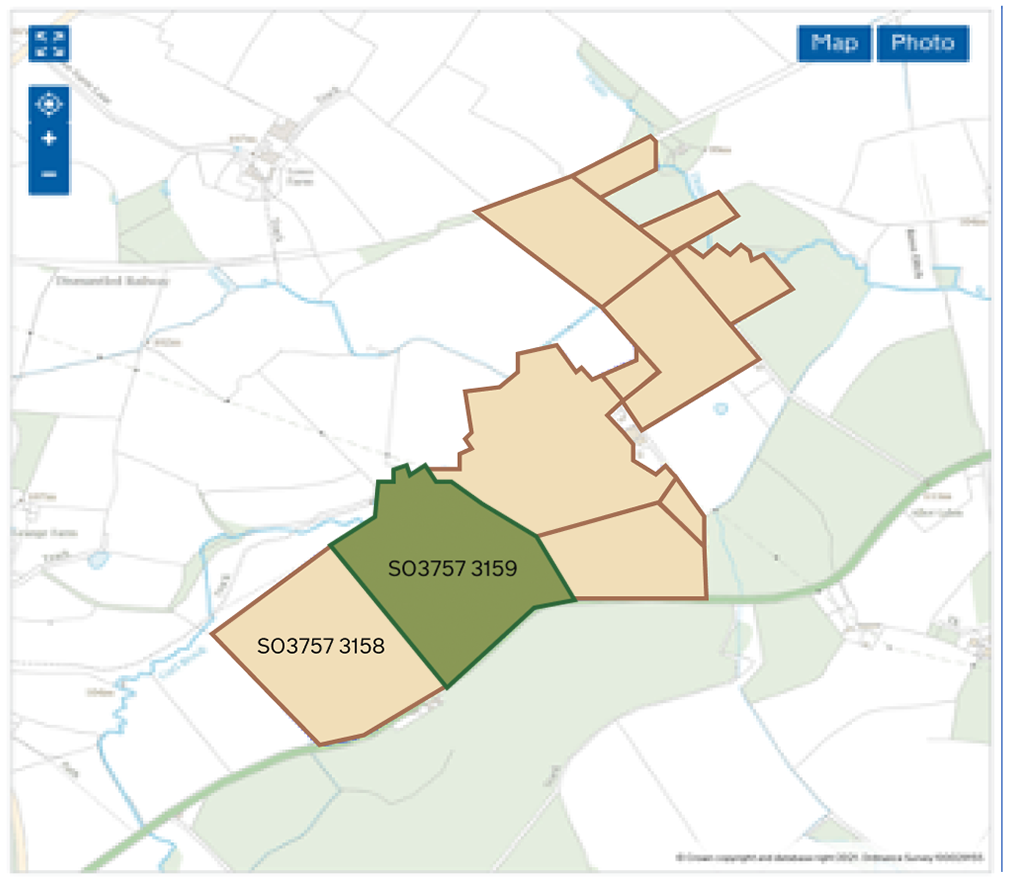
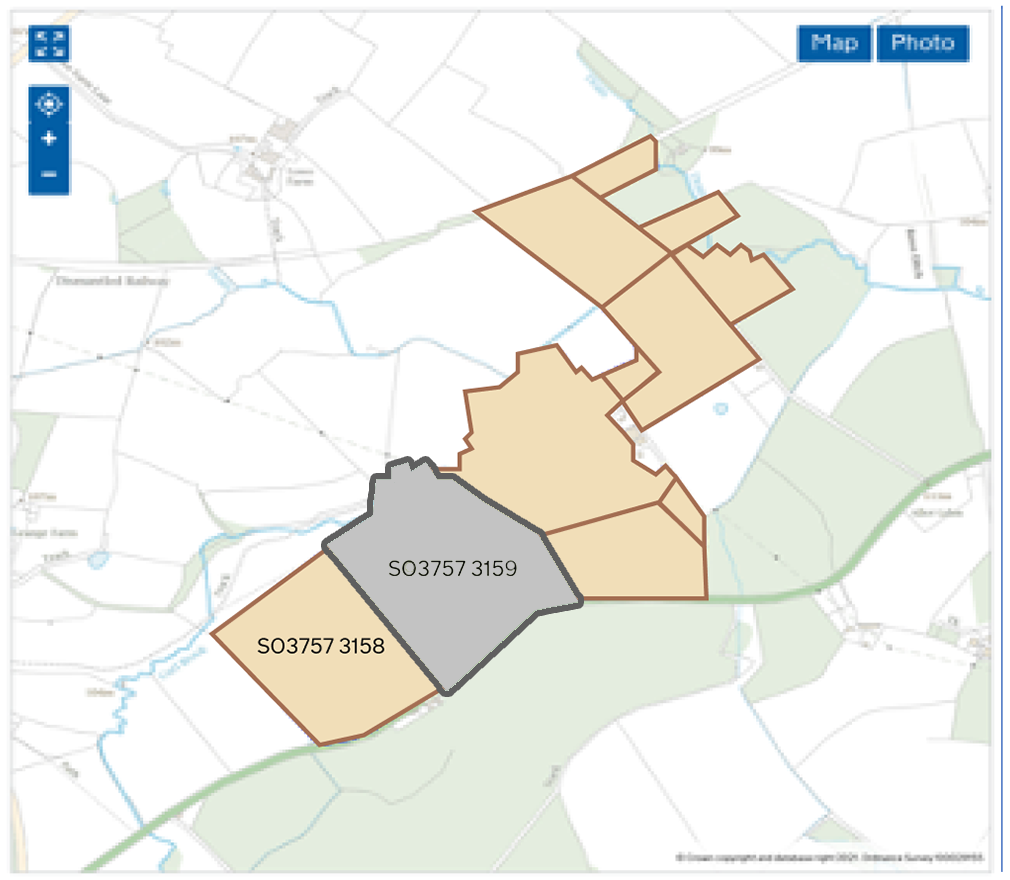
copying actions

Changed region(s): [[0.3069, 0.5216, 0.5832, 0.7977]]

diff --git a/app/views/v1/select-land-copy-action.html b/app/views/v1/select-land-copy-action.html
@@ -23,63 +23,60 @@
   </div>
 </div>
 
-<div class="govuk-width-container">
-<main class="govuk-main-wrapper">
-
-  <div class="govuk-grid-row">
+ <div class="govuk-grid-row main" id="main">
   <div class="govuk-grid-column-one-half">
-          <h1 class="govuk-heading-l">Select land for your actions</h1>
-<p class="govuk-body">To add your selected actions to a land parcel, click on the land parcel link or the map area.</p>
-<p class="govuk-body">You’ll see your list of actions. You then need to:<br>
-• select the action and enter the amount that you want to add to the parcel<br>
-• confirm your selection for that parcel</p>
-<!--<p class="govuk-body">You can then move on to the next land parcel and repeat these steps. When you finish, click 'Go back to select a different area'. This takes you back to the OS map sheet page. You then need to click ‘back to task list’ to continue your application.</p>-->
-<hr class="section-break-large"></hr>
-      <table class="govuk-table">
-<p class="govuk-body">OS Map Sheet Reference S03</p>
-<hr class="govuk-section-break govuk-section-break--visible">
-  <tbody class="govuk-table__body">
-    <tr class="govuk-table__row">
-      <td class="govuk-table__cell">Number of available land parcels</td>
-      <td class="govuk-table__cell govuk-table__cell--numeric">11</td>
-    </tr>
-    <tr class="govuk-table__row">
-      <td class="govuk-table__cell">Total area (ha)</td>
-      <td class="govuk-table__cell govuk-table__cell--numeric">120.3451 ha</td>
-    </tr>
-<!--    <tr class="govuk-table__row">-->
-<!--     <td class="govuk-table__cell">Number of land parcels used for actions</td>-->
-<!--      <td class="govuk-table__cell govuk-table__cell&#45;&#45;numeric">0</td>-->
-<!--    </tr>-->
-<!--        <tr class="govuk-table__row">-->
-<!--    <td class="govuk-table__cell">Number of actions applied for</td>-->
-<!--      <td class="govuk-table__cell govuk-table__cell&#45;&#45;numeric">0</td>-->
-<!--    </tr>-->
-  </tbody>
-</table>
+          <h1 class="govuk-heading-l">Confirm parcel to copy actions to</h1>
+              <p class="govuk-body">To copy your selected actions to a land parcel, click on the land parcel link or the map area.</p>
+              <p class="govuk-body">You'll see your list of actions. You then need to:<br>
+              • select the action and enter the amount that you want to add to the parcel<br>
+              • confirm your selection for that parcel</p>
+              <!--<p class="govuk-body">You can then move on to the next land parcel and repeat these steps. When you finish, click 'Go back to select a different area'. This takes you back to the OS map sheet page. You then need to click ‘back to task list’ to continue your application.</p>-->
+              <hr class="section-break-large"></hr>
+                    <table class="govuk-table">
+              <p class="govuk-body">OS Map Sheet Reference S03</p>
+              <hr class="govuk-section-break govuk-section-break--visible">
+                <tbody class="govuk-table__body">
+                  <tr class="govuk-table__row">
+                    <td class="govuk-table__cell">Number of available land parcels</td>
+                    <td class="govuk-table__cell govuk-table__cell--numeric">11</td>
+                  </tr>
+                  <tr class="govuk-table__row">
+                    <td class="govuk-table__cell">Total area (ha)</td>
+                    <td class="govuk-table__cell govuk-table__cell--numeric">120.3451 ha</td>
+                  </tr>
+              <!--    <tr class="govuk-table__row">-->
+              <!--     <td class="govuk-table__cell">Number of land parcels used for actions</td>-->
+              <!--      <td class="govuk-table__cell govuk-table__cell&#45;&#45;numeric">0</td>-->
+              <!--    </tr>-->
+              <!--        <tr class="govuk-table__row">-->
+              <!--    <td class="govuk-table__cell">Number of actions applied for</td>-->
+              <!--      <td class="govuk-table__cell govuk-table__cell&#45;&#45;numeric">0</td>-->
+              <!--    </tr>-->
+                </tbody>
+              </table>
 
-  <p class="govuk-body"><a href="select-land-parcel-1" class="govuk-link">SO3757 3158</a>
-  <span class="list-parcels govuk-body">Total size: 32.0404 ha</span></p>
-  <p class="govuk-body"><a href="select-land-parcel-2" class="govuk-link">SO3757 3159</a>
-  <span class="list-parcels govuk-body">Total size: 31.4241 ha</span></p>
-  <p class="govuk-body"><a href="#" class="govuk-link">SO3757 3160</a>
-  <span class="list-parcels govuk-body">Total size: 1.4935 ha</span></p>
-  <p class="govuk-body"><a href="#" class="govuk-link">SO3757 3161</a>
-  <span class="list-parcels govuk-body">Total size: 10.3492 ha</span></p>
-  <p class="govuk-body"><a href="#" class="govuk-link">SO3757 3162</a>
-  <span class="list-parcels govuk-body">Total size: 42.4324 ha</span></p>
-  <p class="govuk-body"><a href="#" class="govuk-link">SO3757 3163</a>
-  <span class="list-parcels govuk-body">Total size: 9.9754 ha</span></p>
-  <p class="govuk-body"><a href="#" class="govuk-link">SO3757 3164</a>
-  <span class="list-parcels govuk-body">Total size: 32.1239 ha</span></p>
-  <p class="govuk-body"><a href="#" class="govuk-link">SO3757 3165</a>
-  <span class="list-parcels govuk-body">Total size: 38.2931 ha</span></p>
-  <p class="govuk-body"><a href="#" class="govuk-link">SO3757 3166</a>
-  <span class="list-parcels govuk-body">Total size: 28.3482 ha</span></p>
-  <p class="govuk-body"><a href="#" class="govuk-link">SO3757 3167</a>
-  <span class="list-parcels govuk-body">Total size: 39.2931 ha</span></p>
-  <p class="govuk-body"><a href="#" class="govuk-link">SO3757 3168</a>
-  <span class="list-parcels govuk-body">Total size: 3.2131 ha</span></p>
+            <p class="govuk-body"><a href="select-land-parcel-1" class="govuk-link">SO3757 3158</a>
+            <span class="list-parcels govuk-body">Total size: 32.0404 ha</span></p>
+            <p class="govuk-body"><a href="select-land-parcel-2" class="govuk-link">SO3757 3159</a>
+            <span class="list-parcels govuk-body">Total size: 31.4241 ha</span></p>
+            <p class="govuk-body"><a href="#" class="govuk-link">SO3757 3160</a>
+            <span class="list-parcels govuk-body">Total size: 1.4935 ha</span></p>
+            <p class="govuk-body"><a href="#" class="govuk-link">SO3757 3161</a>
+            <span class="list-parcels govuk-body">Total size: 10.3492 ha</span></p>
+            <p class="govuk-body"><a href="#" class="govuk-link">SO3757 3162</a>
+            <span class="list-parcels govuk-body">Total size: 42.4324 ha</span></p>
+            <p class="govuk-body"><a href="#" class="govuk-link">SO3757 3163</a>
+            <span class="list-parcels govuk-body">Total size: 9.9754 ha</span></p>
+            <p class="govuk-body"><a href="#" class="govuk-link">SO3757 3164</a>
+            <span class="list-parcels govuk-body">Total size: 32.1239 ha</span></p>
+            <p class="govuk-body"><a href="#" class="govuk-link">SO3757 3165</a>
+            <span class="list-parcels govuk-body">Total size: 38.2931 ha</span></p>
+            <p class="govuk-body"><a href="#" class="govuk-link">SO3757 3166</a>
+            <span class="list-parcels govuk-body">Total size: 28.3482 ha</span></p>
+            <p class="govuk-body"><a href="#" class="govuk-link">SO3757 3167</a>
+            <span class="list-parcels govuk-body">Total size: 39.2931 ha</span></p>
+            <p class="govuk-body"><a href="#" class="govuk-link">SO3757 3168</a>
+            <span class="list-parcels govuk-body">Total size: 3.2131 ha</span></p>
 
  <nav class="govuk-pagination" role="navigation" aria-label="Pagination">
 <!--        <form class="form" action="select-map" method="post">-->
@@ -91,26 +88,22 @@
 
 </div>
 
-  <div class="govuk-grid-column-one-half">
-    <p class="govuk-body"><a href="#" class="govuk-link">Hide/show map</a></p>
-  <map name="clickable">
-        <area shape="rect" coords="100,280,190,320" href="select-land-parcel-1">
-        {# <area shape="rect" coords="150,220,240,280" href="select-land-parcel-2"> #}
-                  </map>
-<img usemap="#clickable" src="https://raw.githubusercontent.com/defra-design/fcp-future-rps/1aeeee959bb2f577153b5a7abc72d4fd62f8e39b/app/views/v1/img/map_choose_copy.png" alt="Map of your land" style="width:465px;height:400px;"></a>
-
-       <p class="govuk-body">Key:</p>
-       <div class="key-div govuk-!-margin-bottom-5">
-       <div class="key-parent" id="key1"></div><span class="govuk-body-s">Error</span>
-       <div class="key-parent" id="key2"></div><span class="govuk-body-s">Selected</span>
-       <div class="key-parent" id="key3"></div><span class="govuk-body-s">Not Applied</span>
-       <div class="key-parent" id="key4"></div><span class="govuk-body-s">Applied</span>
-     </div>
-     
+    <div class="govuk-grid-column-one-half">
+      {# <p class="govuk-body"><a href="#" class="govuk-link">Hide/show map</a></p> #}
+        <map name="clickable">
+              <area shape="rect" coords="100,280,190,320" href="land-parcel-actions-copied">
+              {# <area shape="rect" coords="150,220,240,280" href="select-land-parcel-2"> #}
+        </map>
+        <img usemap="#clickable" src="https://raw.githubusercontent.com/defra-design/fcp-future-rps/1aeeee959bb2f577153b5a7abc72d4fd62f8e39b/app/views/v1/img/map_choose_copy.png" alt="Map of your land" style="width:465px;height:400px;"></a>
+            <div class="key-div govuk-!-margin-bottom-5">
+              <div class="key-parent" id="key1"></div><span class="govuk-body-s">Error</span>
+              <div class="key-parent" id="key2"></div><span class="govuk-body-s">Selected</span>
+              <div class="key-parent" id="key3"></div><span class="govuk-body-s">Not Applied</span>
+              <div class="key-parent" id="key4"></div><span class="govuk-body-s">Applied</span>
+              <div class="key-parent" id="key5"></div><span class="govuk-body-s">Parcel copied</span>
+          </div>
     </div>
 
-  </div>
-
-</main>
 </div>
+
 {% endblock %}

diff --git a/app/views/v1/land-parcel-actions-copied.html b/app/views/v1/land-parcel-actions-copied.html
@@ -1,0 +1,174 @@
+{% extends "layouts/main.html" %}
+
+{% block pageTitle %}
+  Future – {{ serviceName }} – GOV.UK Prototype Kit
+{% endblock %}
+
+
+{% block beforeContent %}
+
+{% from "govuk/components/phase-banner/macro.njk" import govukPhaseBanner %}
+
+{{ govukPhaseBanner({
+  tag: {
+    text: "Prototype"
+  },
+  html: 'This is a prototype used for testing purposes only.'
+}) }}
+  {{ govukBackLink({
+    text: "Back",
+    href: "javascript:window.history.back()"
+  }) }}
+{% endblock %}
+
+{% block content %}
+
+<div class="govuk-grid-row" id="header">
+  <div class="govuk-grid-column-full govuk-!-margin-bottom-5">
+    <div class="moj-organisation-nav" aria-label="Organisation switcher">
+        <div class="moj-organisation-nav__title govuk-!-margin-bottom-5">Sarah Farmer</div>
+              <button type="submit" class="govuk-button govuk-button--secondary" data-module="govuk-button">
+                Save and return later
+              </button>
+        </div>
+    </div>
+  </div>
+
+
+  <form class="form" action="select-rotational-actions" method="post">
+
+
+  <div class="govuk-grid-row">
+  <div class="govuk-grid-column-one-half">
+         <h1 class="govuk-heading-l">Actions copying to parcel</h1>
+         {# <p class="govuk-body">Confirm the details of actions you are copying</p> #}
+        {# <p class="govuk-body">Some other helpful copy needed or not?</p> #}
+        <table class="govuk-table">
+          <caption class="govuk-table__caption govuk-table__caption--s">Parcels you have chosen</caption>
+          <tbody class="govuk-table__body">
+            <tr class="govuk-table__row">
+              <td class="govuk-table__cell">From</td>
+              <td class="govuk-table__cell govuk-table__cell--numeric">SO3757 3159</td>
+            </tr>
+            <tr class="govuk-table__row">
+              <td class="govuk-table__cell">To</td>
+              <td class="govuk-table__cell govuk-table__cell--numeric">SO3757 3158</td>
+            </tr>
+          </tbody>
+          </table>  
+    <hr class="section-break-large"></hr>
+         <table class="govuk-table">
+          <caption class="govuk-table__caption govuk-table__caption--s">Actions for selected land parcel</caption>
+          <tbody class="govuk-table__body">
+            <tr class="govuk-table__row">
+              <td class="govuk-table__cell">Select</td>
+              <td class="govuk-table__cell">Action</td>
+              <td class="govuk-table__cell">Available area</td>
+              <td class="govuk-table__cell">Quantity</td>
+              <td class="govuk-table__cell">Unit</td>
+            </tr>
+            <tr class="govuk-table__row">
+              <td class="govuk-table__cell"><div class="govuk-checkboxes__item series-selector-items">
+                  <input class="govuk-checkboxes__input" id="filter-type-B" type="checkbox">
+                  <label class="govuk-label govuk-checkboxes__label" for="filter-type-B">
+                  </label>
+                </div></td>
+              <td class="govuk-table__cell">AB1: Nectar flower mix</td>
+              <td class="govuk-table__cell">8.3405</td>
+              <td class="govuk-table__cell"><div class="govuk-date-input__item">
+                <div class="govuk-form-group">
+                  <label class="govuk-label govuk-date-input__label" for="passport-issued-year">
+                  </label>
+                  <input class="govuk-input govuk-date-input__input govuk-input--width-6" id="quantity" name="quantity" type="text" inputmode="numeric">
+                </div></td>
+              <td class="govuk-table__cell">ha</td>
+            </tr>
+                <tr class="govuk-table__row">
+              <td class="govuk-table__cell"><div class="govuk-checkboxes__item series-selector-items">
+                  <input class="govuk-checkboxes__input" id="filter-type-B" type="checkbox">
+                  <label class="govuk-label govuk-checkboxes__label" for="filter-type-B">
+                  </label>
+                </div></td>
+              <td class="govuk-table__cell">AB4: Skylark plots</td>
+              <td class="govuk-table__cell">8.3405</td>
+              <td class="govuk-table__cell"><div class="govuk-date-input__item">
+                <div class="govuk-form-group">
+                  <label class="govuk-label govuk-date-input__label" for="passport-issued-year">
+                  </label>
+                  <input class="govuk-input govuk-date-input__input govuk-input--width-6" id="quantity" name="quantity" type="text" inputmode="numeric">
+                </div></td>
+              <td class="govuk-table__cell">ha</td>
+            </tr>
+                <tr class="govuk-table__row">
+              <td class="govuk-table__cell"><div class="govuk-checkboxes__item series-selector-items">
+                  <input class="govuk-checkboxes__input" id="filter-type-B" type="checkbox">
+                  <label class="govuk-label govuk-checkboxes__label" for="filter-type-B">
+                  </label>
+                </div></td>
+              <td class="govuk-table__cell">AB2: Basic overwinter stubble</td>
+              <td class="govuk-table__cell">8.3405</td>
+              <td class="govuk-table__cell"><div class="govuk-date-input__item">
+                <div class="govuk-form-group">
+                  <label class="govuk-label govuk-date-input__label" for="passport-issued-year">
+                  </label>
+                  <input class="govuk-input govuk-date-input__input govuk-input--width-6" id="quantity" name="quantity" type="text" inputmode="numeric">
+                </div></td>
+              <td class="govuk-table__cell">ha</td>
+            </tr>
+          </tbody>
+        </table>
+
+   </div>
+
+  <div class="govuk-grid-column-one-half">
+    {# <p class="govuk-body"><a href="#" class="govuk-link">Hide/show map</a></p> #}
+   <map name="clickable">
+        <area shape="rect" coords="100,280,190,320" href="select-land-parcel-1">
+        <area shape="rect" coords="150,220,240,280" href="select-land-parcel-2">
+                  </map>
+<img usemap="#clickable" src="https://raw.githubusercontent.com/defra-design/fcp-future-rps/56621a962ff1c79573dc9ba24b9dfed026bf152e/app/views/experiment/img/map_3.png" alt="Map of your land" style="width:465px;height:400px;"></a>
+
+       {# <p class="govuk-body">Key:</p> #}
+    <div class="key-div govuk-!-margin-bottom-5">
+       <div class="key-parent" id="key1"></div><span class="govuk-body-s">Error</span>
+       <div class="key-parent" id="key2"></div><span class="govuk-body-s">Selected</span>
+       <div class="key-parent" id="key3"></div><span class="govuk-body-s">Not Applied</span>
+       <div class="key-parent" id="key4"></div><span class="govuk-body-s">Applied</span>
+    </div>
+      <table class="govuk-table">
+        <caption class="govuk-table__caption govuk-table__caption--m govuk-visually-hidden">The land parcel actions are being copied to</caption>
+        <tbody class="govuk-table__body">
+          <tr class="govuk-table__row">
+            <td class="govuk-table__cell">Reference</td>
+            <td class="govuk-table__cell govuk-table__cell--numeric">SO3757 3158</td>
+          </tr>
+          <tr class="govuk-table__row">
+            <td class="govuk-table__cell">Total area (ha)</td>
+            <td class="govuk-table__cell govuk-table__cell--numeric">32.0404</td>
+          </tr>
+          <tr class="govuk-table__row">
+            <td class="govuk-table__cell">Land cover</td>
+            <td class="govuk-table__cell govuk-table__cell--numeric">Arable land</td>
+          </tr>
+        </tbody>
+      </table>
+
+    </div>
+
+  </div>
+
+  <div class="govuk-grid-row">
+    <div class="govuk-grid-column-one-half">     
+      <button type="submit" class="govuk-button" data-module="govuk-button">
+        Save and continue
+      </button>
+      <p><a href="select-land-parcel-1" class="govuk-link">Cancel and view all parcels</a></p>
+    </div>
+  </div>
+
+  
+</form>
+</main>
+</div>
+
+{% endblock %}

diff --git a/app/assets/sass/application.scss b/app/assets/sass/application.scss
@@ -82,6 +82,13 @@
   background-color: #899855;
 }
 
+#key5 {
+	width: 2em;
+	height: 2em;
+	border: 4px solid #3a3a3a;
+	background-color: #7b7b7b;
+  }
+
 // Actions details lists
 
 .farm-overview {
